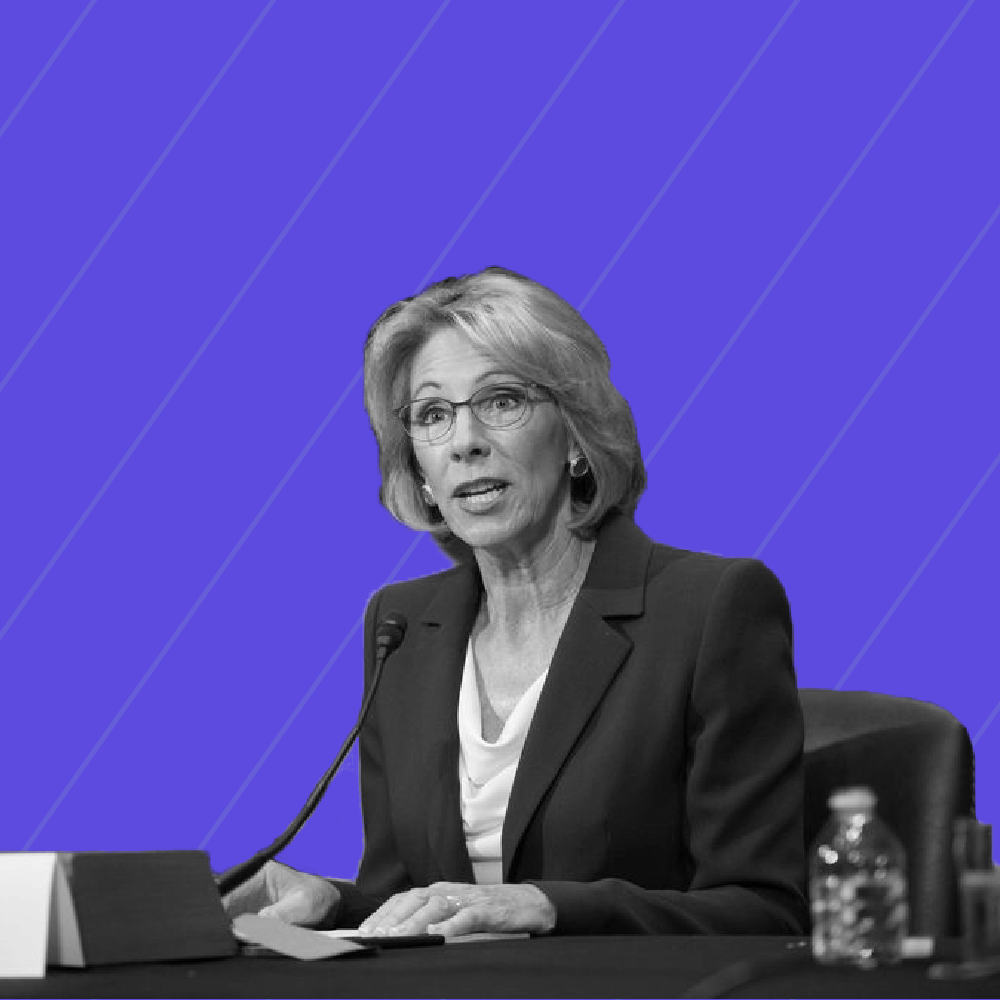
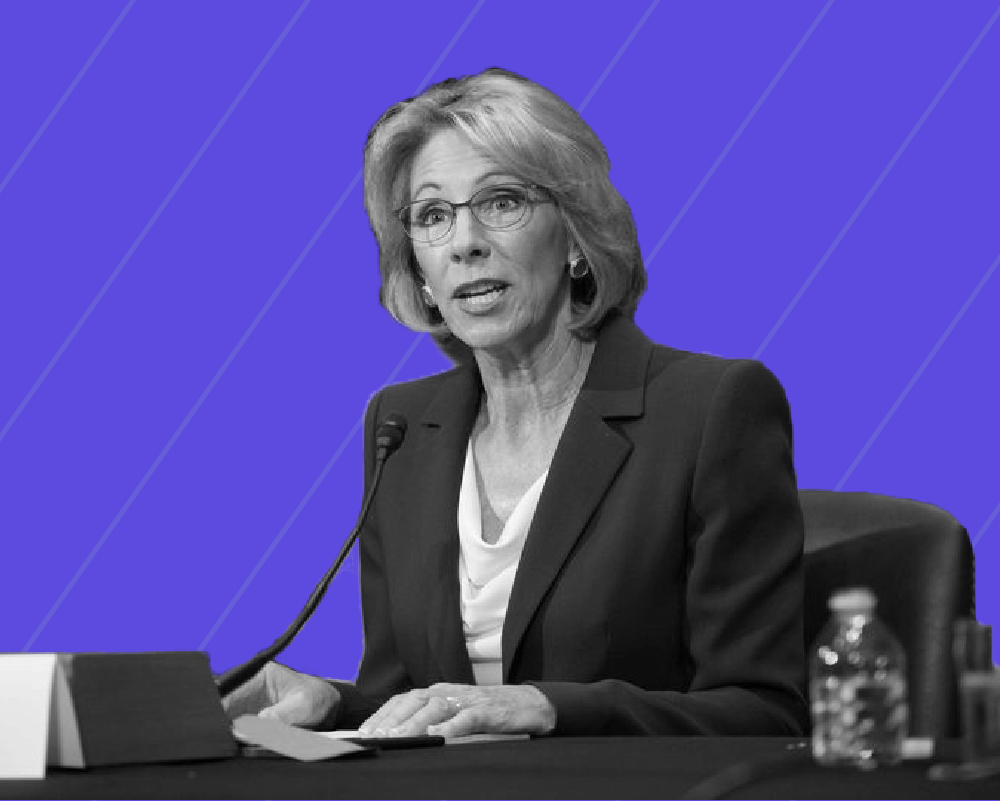
changes

Changed region(s): [[0.0, 0.0624, 1.0, 1.0]]

diff --git a/index.html b/index.html
@@ -73,6 +73,9 @@
         </div>
       </div>
       <div class="row">
+        <div class="col-sm-6">
+          <img class=".img-fluid rounded mx-auto d-block" src="./Images/betsydevos.png" alt="Responsive image">
+        </div>
         <div class="col-sm">
           <h1>Title IX at UMD</h1>
           <p>UMD has a long history with Title IX. Bernice "Bunny" Sandler, UMD alumna, is credited as the "God Mother" of Title IX. In 1969, Bunny experienced predujice in the hiring process at the very school she was an alummus from. Sparked by her experience at the University of Maryland, she aided Representative Patsy Mink and Senator Birch Bayh to birth the greatest change to modern collegiate equality.</p>

diff --git a/main.css b/main.css
@@ -77,8 +77,8 @@ section.about p{
 }
 
 section.about img{
-  max-width: 70%;
-  height: auto;
+  max-width: 100%;
+  height: auto%;
 }
 
 section.experience{
